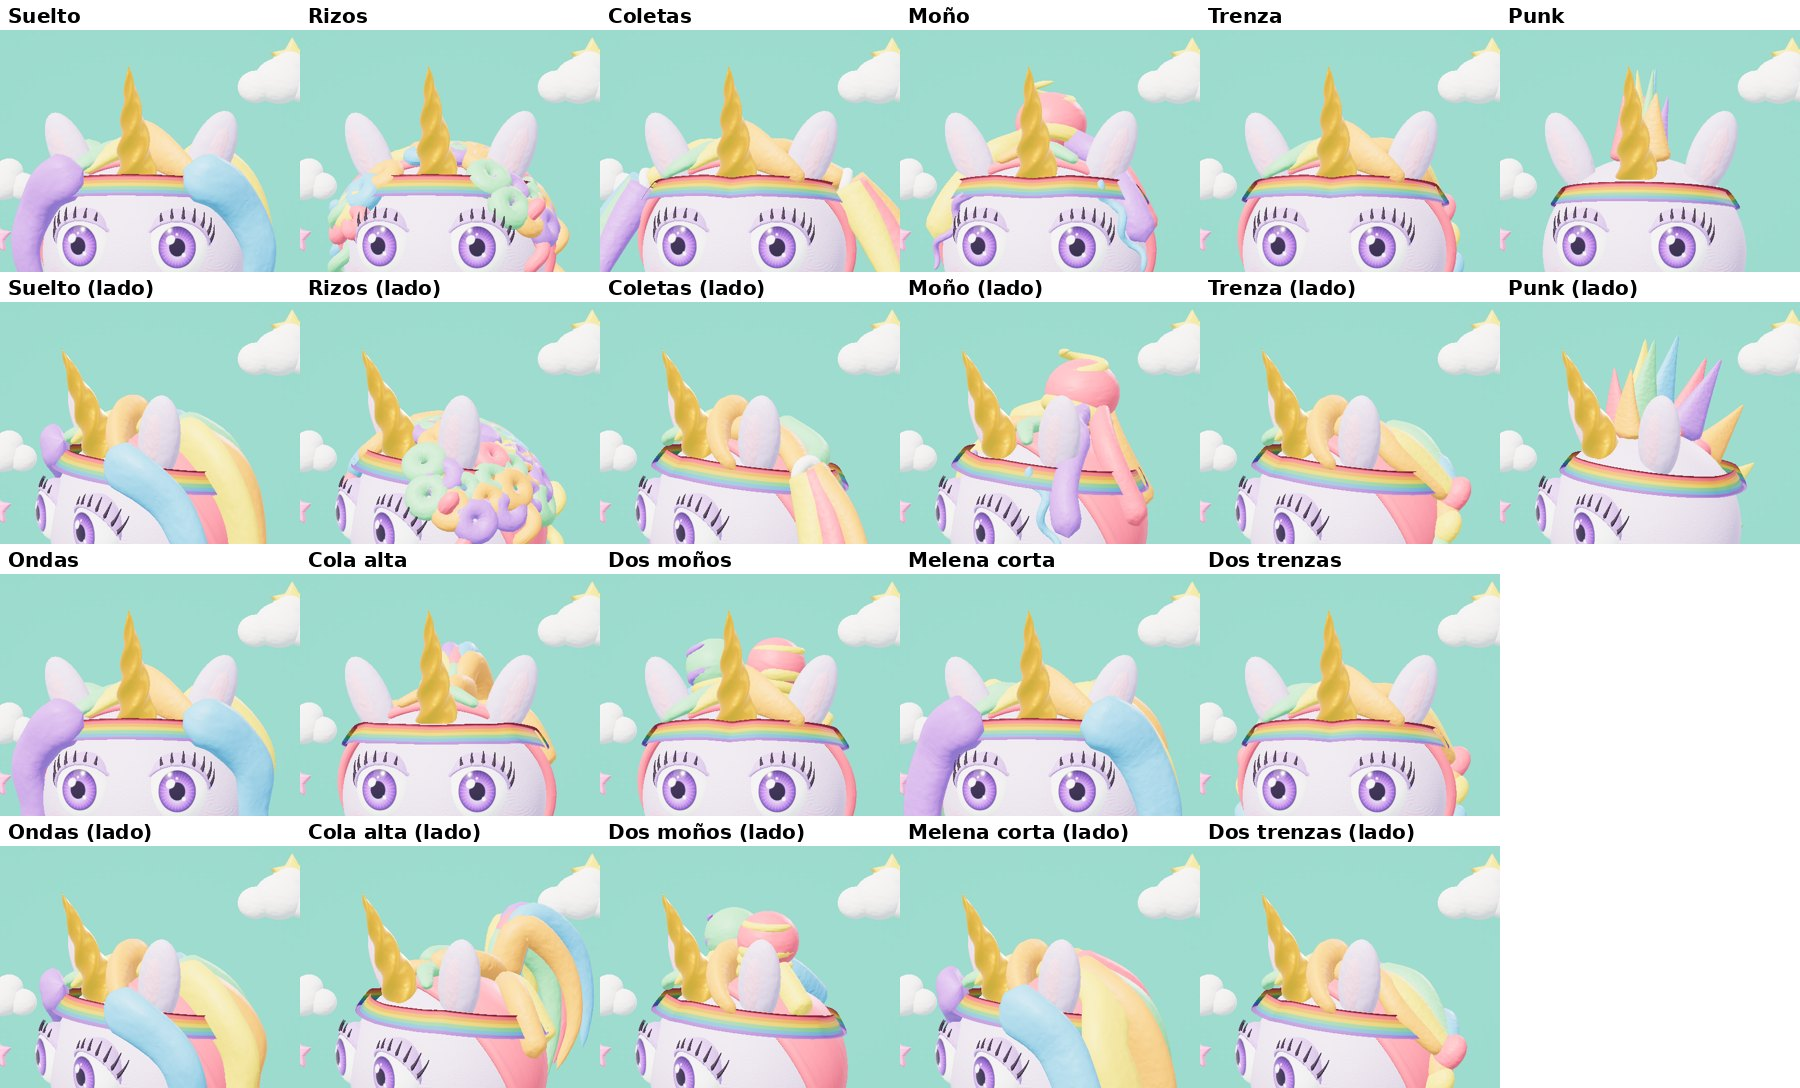
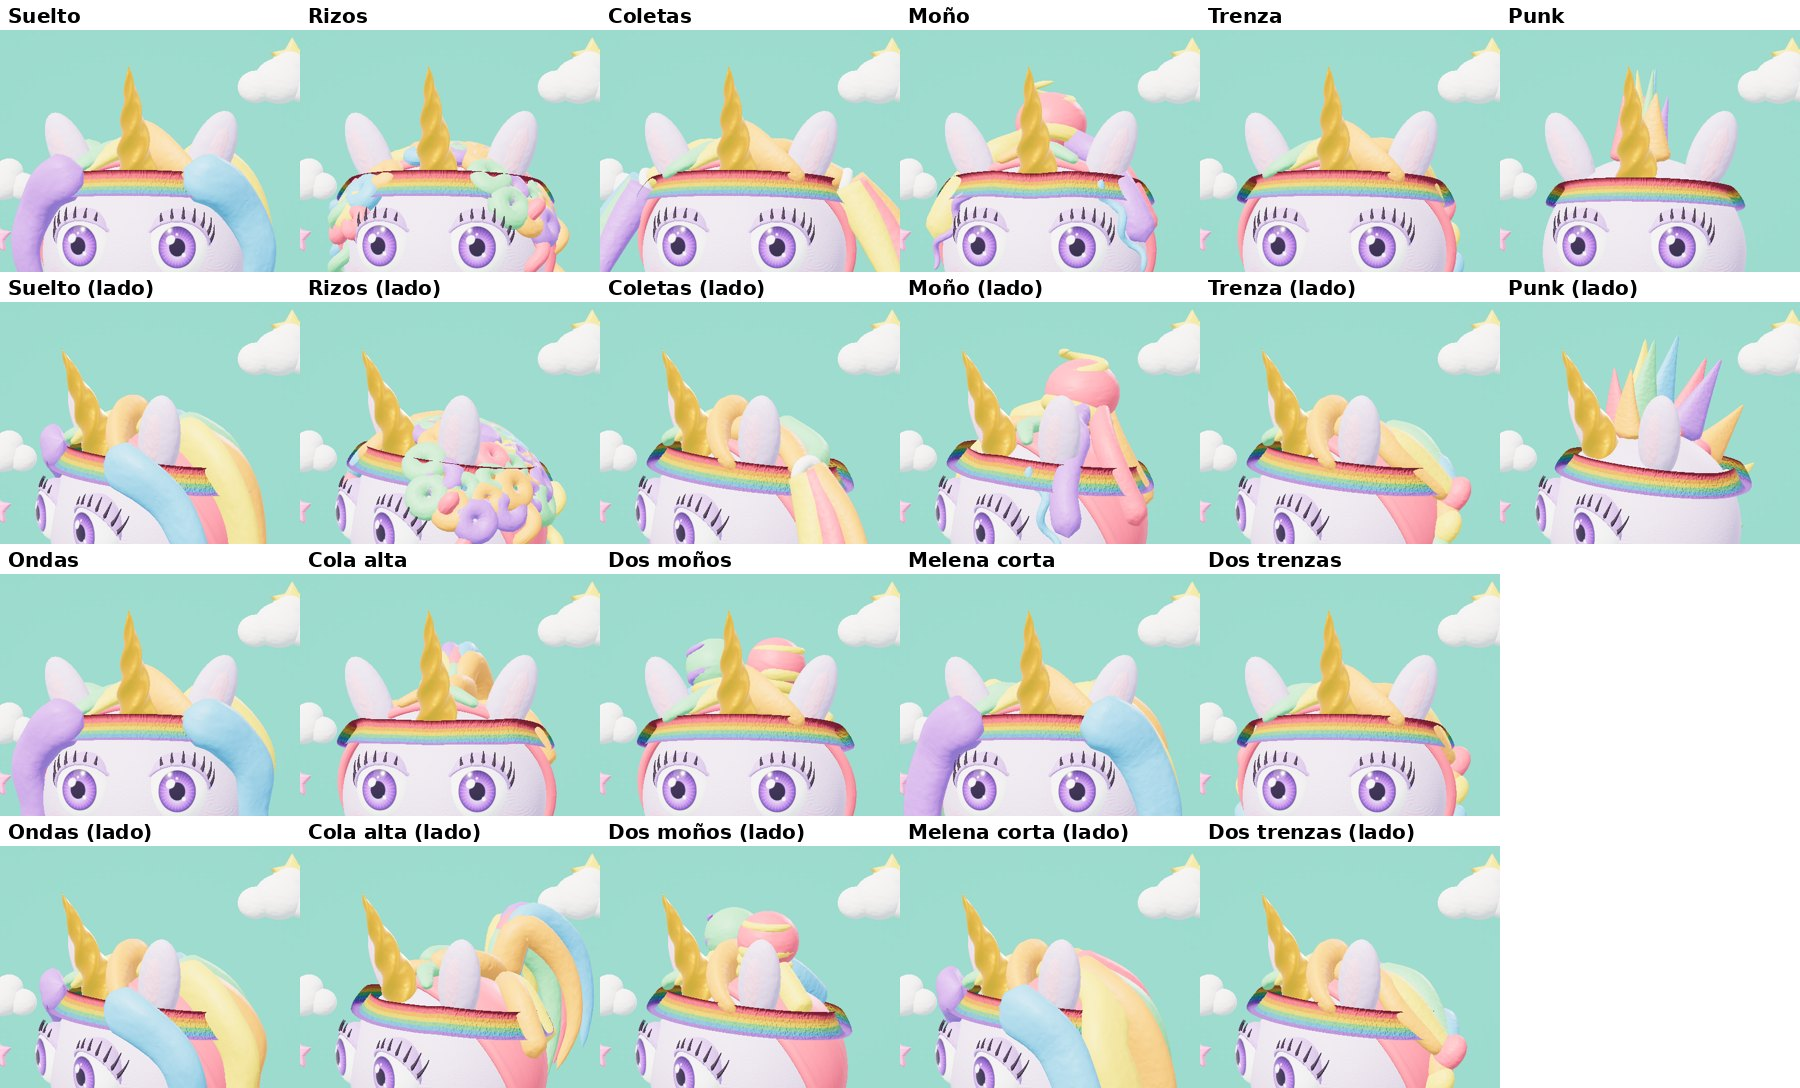
fix: banda arcoíris más gruesa, con textura de toalla deportiva
Claude-Session: https://claude.ai/code/session_01WWzoGbXAT76kww31oN17VY

diff --git a/public/index.html b/public/index.html
@@ -1487,14 +1487,23 @@ function partyHatTex(){
   partyTex=canvasTex(c);partyTex.wrapS=partyTex.wrapT=THREE.RepeatWrapping;return partyTex;
 }
 /* one soft ribbon along a headband: a rounded flat cross-section swept over the band, v runs across its width (for printed stripes) */
-function ribbon(B,W,T,L){
-  L=L||90;const K=28,cs=[];
-  for(let k=0;k<K;k++){const a=k/K*TAU,c=Math.cos(a),s=Math.sin(a);cs.push([W/2*Math.sign(c)*Math.pow(Math.abs(c),.35),T/2*(1+Math.sign(s)*Math.pow(Math.abs(s),.35))]);}
+function ribbon(B,W,T,L,round){
+  L=L||90;round=round||.35;const K=28,cs=[];
+  for(let k=0;k<K;k++){const a=k/K*TAU,c=Math.cos(a),s=Math.sin(a);cs.push([W/2*Math.sign(c)*Math.pow(Math.abs(c),round),T/2*(1+Math.sign(s)*Math.pow(Math.abs(s),round))]);}
   const curves=cs.map(([o,dh])=>new THREE.CatmullRomCurve3(Array.from({length:B.n+1},(_,i)=>B.pt(i,o,dh))));
   const pos=[],uv=[],idx=[];
   for(let i=0;i<=L;i++)for(let k=0;k<=K;k++){const p=curves[k%K].getPoint(i/L);pos.push(p.x,p.y,p.z);uv.push(i/L,cs[k%K][0]/W+.5);}
   for(let i=0;i<L;i++)for(let k=0;k<K;k++){const a=i*(K+1)+k,b=a+K+1;idx.push(a,a+1,b,b,a+1,b+1);}
   const g=new THREE.BufferGeometry();g.setAttribute('position',new THREE.Float32BufferAttribute(pos,3));g.setAttribute('uv',new THREE.Float32BufferAttribute(uv,2));g.setIndex(idx);g.computeVertexNormals();return g;
+}
+let terryTex=null;
+function terryBumpTex(){
+  if(terryTex)return terryTex;
+  /* the bump shares the stripe map's UVs (whole band length × width), so the loops are drawn at that 26:1 aspect */
+  const c=document.createElement('canvas');c.width=2048;c.height=80;const x=c.getContext('2d');x.fillStyle='#808080';x.fillRect(0,0,2048,80);
+  let r=7;const rnd=()=>(r=(r*16807)%2147483647)/2147483647;
+  for(let i=0;i<7000;i++){const g=120+rnd()*135|0;x.fillStyle=`rgb(${g},${g},${g})`;x.beginPath();x.arc(rnd()*2048,rnd()*80,1.4+rnd()*1.6,0,TAU);x.fill();}
+  terryTex=new THREE.CanvasTexture(c);terryTex.wrapS=THREE.RepeatWrapping;return terryTex;
 }
 let ribbonTex=null;
 function rainbowRibbonTex(){
@@ -1534,8 +1543,9 @@ function buildHeadAcc(){
     flower(G,surf(lon-18,lat-10,Math.max(.12,patchLift(lon-18,lat-10,8)+.06)),surfN(lon-18,lat-10),.14,'#ffffff','#ff8fc8');
   }else if(id==='diadema'){
     /* a sweatband all the way round the forehead: high in front (between lashes and horn), lower at the nape, snug over the hair */
-    const W=.2,B=headband(lon=>33+7*Math.cos(lon*D2R),180,[-.08,0,.08],.004,.012,72,.1);
-    G.add(new THREE.Mesh(ribbon(B,W,.04,288),clay('#d0d0d0',{map:rainbowRibbonTex(),roughness:.7,sheen:0,clearcoat:0,envMapIntensity:.3})));
+    const W=.23,B=headband(lon=>33+7*Math.cos(lon*D2R),180,[-.09,0,.09],.004,.012,72,.1);
+    /* thick and puffy like a terry running sweatband */
+    G.add(new THREE.Mesh(ribbon(B,W,.1,288,.6),clay('#d0d0d0',{map:rainbowRibbonTex(),bumpMap:terryBumpTex(),bumpScale:.022,roughness:.95,sheen:0,clearcoat:0,envMapIntensity:.25})));
   }else if(id==='perlas'){
     const B=headband(lon=>76-.0058*lon*lon,60,[0],.1,.04),curve=new THREE.CatmullRomCurve3(Array.from({length:B.n+1},(_,i)=>B.pt(i,0,0)));
     for(let k=0;k<=34;k++){const t=k/34,r=k%2?.032:.052;G.add(blob(k%2?MAT.gold:MAT.pearl,curve.getPointAt(t),V3(r,r,r)));}
